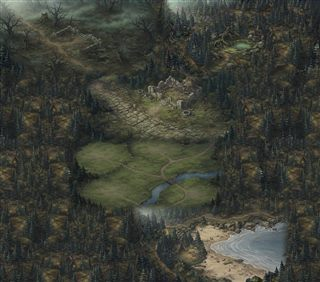
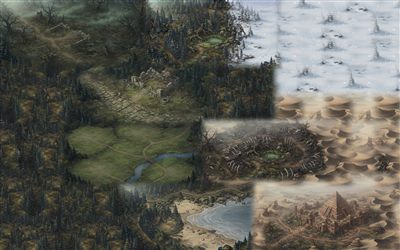
黑暗大陸：大地圖往東擴大——雪原＝永凍荒原、骨骸綠洲＝焦骨峽谷、金字塔＝黃沙王陵（20261018s）

diff --git a/屠龍勇者/data/ui-scene.js b/屠龍勇者/data/ui-scene.js
@@ -82,20 +82,24 @@ const SCENE_BGS = {
             { role: '鍛造', x: 56, y: 15, painted: true, h: 4.2 },   // 右下打鐵匠
         ],
     },
-    // 大地圖（2026-10-18 第 1 期，ARCHITECTURE.md 第 45 節）：使用者用 AI 生成的 5 張場景＋森林填充，tools/bigmap/build-map.ps1 拼成 3200×2816＝100×88 格（1 格 32px，原圖 1:1）
+    // 大地圖（2026-10-18 第 1 期，ARCHITECTURE.md 第 45、47、48 節）：使用者用 AI 生成的場景＋森林／雪地／沙漠填充，tools/bigmap/build-map.ps1 拼成 4512×2816＝141×88 格（1 格 32px，原圖 1:1）
     // 走得到的範圍照 tools/bigmap/walk.json；big：鏡頭跟著角色捲動、離角色太遠的怪收掉、有小地圖；
     // regions：區域中心格、對應的地圖 zone、從村莊傳送過來的出生格 start；角色離哪個中心最近就算在哪一區
     // 2026-10-18 使用者改成「5 個真的地圖合併」：海灘＝低語海岸、草原與古泉＝迷霧古林、廢村＝沉船海灣、沼澤＝紫霧遺跡；
     // 走進別區就自動換成那個地圖（怪物、等級、掉落跟著換，sceneEnterZone），這幾個地圖共用同一個畫面（sceneKey 'zone:wild'）
     wild: {
-        src: 'images/maps/wild.jpg', mini: 'images/maps/wild-mini.jpg', occ: 'images/maps/wild-occ.png', w: 100, h: 88, start: [63, 78], big: true,
+        src: 'images/maps/wild.jpg?v=2', mini: 'images/maps/wild-mini.jpg?v=2', occ: 'images/maps/wild-occ.png', w: 141,   // ?v=：圖改過就加 1（SW 會先給快取的舊圖）
+        h: 88, start: [63, 78], big: true,
         // rect：這一區的範圍（格子 [x0,y0,x1,y1]，依序第一個符合的；沒有符合的才用最近的中心）
         regions: [
             { zone: 'forgottenIsle', x: 22, y: 12, start: [20, 14], rect: [0, 0, 49, 21] },
-            { zone: 'elvenForest', x: 70, y: 15, rect: [50, 0, 99, 21] },   // 古泉：迷霧古林的另一區（傳送出生在草原）
-            { zone: 'pirateIsle', x: 44, y: 34, start: [40, 34], rect: [0, 22, 99, 42] },
-            { zone: 'elvenForest', x: 46, y: 54, start: [46, 52], rect: [0, 43, 99, 64] },
-            { zone: 'island', x: 63, y: 79, start: [63, 78], rect: [0, 65, 99, 87] },
+            { zone: 'elvenForest', x: 70, y: 15, rect: [50, 0, 81, 21] },   // 古泉：迷霧古林的另一區（傳送出生在草原）
+            { zone: 'orenSnow', x: 105, y: 15, start: [92, 14], rect: [82, 0, 140, 32] },        // 2026-10-18 往東擴大：古泉東邊的雪原
+            { zone: 'pirateIsle', x: 44, y: 34, start: [40, 34], rect: [0, 22, 69, 42] },
+            { zone: 'dragonValley', x: 94, y: 50, start: [80, 52], rect: [70, 33, 140, 63] },   // 骨骸綠洲＋東邊沙丘
+            { zone: 'elvenForest', x: 46, y: 54, start: [46, 52], rect: [0, 43, 69, 64] },
+            { zone: 'pyramid', x: 116, y: 76, start: [97, 84], rect: [91, 63, 140, 87] },       // 金字塔（地監黃沙王陵的外圍）
+            { zone: 'island', x: 63, y: 79, start: [63, 78], rect: [0, 65, 90, 87] },
         ],
         walk: [
             [4, 5, 8, 8], [7, 8, 12, 11], [10, 10, 18, 13], [15, 12, 22, 16], [18, 15, 26, 19], [22, 18, 30, 21], [26, 20, 33, 24],
@@ -108,6 +112,9 @@ const SCENE_BGS = {
             [48, 63, 56, 70], [44, 64, 49, 68],
             [48, 69, 63, 71], [48, 71, 52, 87], [53, 76, 61, 81], [60, 69, 67, 74], [61, 74, 67, 76], [59, 76, 68, 80],
             [60, 80, 72, 83], [62, 83, 79, 87], [71, 85, 84, 87], [63, 66, 85, 68], [62, 67, 67, 70],
+            [85, 5, 97, 21], [97, 2, 140, 32], [78, 15, 86, 19],                                  // 雪原、古泉往雪原
+            [100, 33, 140, 64], [74, 44, 114, 62], [66, 56, 76, 58],                              // 沙丘、骨骸綠洲、草原往綠洲
+            [92, 63, 140, 68], [92, 68, 102, 87], [100, 80, 140, 87], [130, 66, 140, 82],         // 金字塔四周
         ],
         block: [
             [16, 8, 24, 9], [23, 10, 31, 12], [25, 13, 27, 15], [36, 16, 37, 18],
@@ -115,6 +122,7 @@ const SCENE_BGS = {
             [45, 23, 61, 32], [42, 27, 44, 29], [56, 34, 58, 36],
             [56, 52, 68, 54], [55, 54, 56, 54], [49, 57, 51, 58], [47, 58, 49, 59], [45, 59, 48, 61], [44, 61, 46, 63],
             [55, 75, 58, 77], [61, 78, 63, 80],
+            [87, 50, 100, 56], [103, 68, 130, 81],   // 綠洲水池與樹根、金字塔建築群
         ],
     },
 };
@@ -267,6 +275,7 @@ function sceneKey() {
 function themeFor() {
     if (player.loc.type === 'town') return { ...SCENE_THEMES.town, bg: TOWN_BG[player.loc.id] || 'village' };
     const z = currentZone();
+    if (z.bg && SCENE_BGS[z.bg] && SCENE_BGS[z.bg].big) return { ...SCENE_THEMES.field, bg: z.bg };   // 大地圖（含地監黃沙王陵的外圍）
     if (z.type === 'dragon') return SCENE_THEMES.dragon;
     if (z.type === 'tower') return SCENE_THEMES.tower;
     if (z.type === 'field') return z.bg ? { ...SCENE_THEMES.field, bg: z.bg } : SCENE_THEMES.field;   // z.bg：這張野外用自己的背景圖（大地圖）

diff --git a/屠龍勇者/index.html b/屠龍勇者/index.html
@@ -863,44 +863,44 @@
 <div id="toast-layer"></div>
 
 <!-- 載入順序：設定 → 資料 → 玩家 → 系統 → 介面 → 進入點（換版時所有 ?v= 一起改，見 ARCHITECTURE.md） -->
-<script src="data/config.js?v=20261018r"></script>
-<script src="data/classes.js?v=20261018r"></script>
-<script src="data/skills.js?v=20261018r"></script>
-<script src="data/items.js?v=20261018r"></script>
-<script src="data/spellbook.js?v=20261018r"></script>
-<script src="data/monsters.js?v=20261018r"></script>
-<script src="data/zones.js?v=20261018r"></script>
-<script src="data/quests.js?v=20261018r"></script>
-<script src="data/resonance.js?v=20261018r"></script>
-<script src="data/player.js?v=20261018r"></script>
-<script src="data/enchant.js?v=20261018r"></script>
-<script src="data/affix.js?v=20261018r"></script>
-<script src="data/craft.js?v=20261018r"></script>
-<script src="data/maps.js?v=20261018r"></script>
-<script src="data/combat.js?v=20261018r"></script>
-<script src="data/town.js?v=20261018r"></script>
-<script src="data/save.js?v=20261018r"></script>
-<script src="data/cloud.js?v=20261018r"></script>
-<script src="data/offline.js?v=20261018r"></script>
-<script src="data/ui.js?v=20261018r"></script>
-<script src="data/sfx.js?v=20261018r"></script>
-<script src="data/bgm.js?v=20261018r"></script>
-<script src="data/ui-create.js?v=20261018r"></script>
-<script src="data/ui-panels.js?v=20261018r"></script>
-<script src="data/codex.js?v=20261018r"></script>
-<script src="data/raid.js?v=20261018r"></script>
-<script src="data/clan.js?v=20261018r"></script>
-<script src="data/chat.js?v=20261018r"></script>
-<script src="data/rank.js?v=20261018r"></script>
-<script src="data/wb.js?v=20261018r"></script>
-<script src="data/market.js?v=20261018r"></script>
-<script src="data/vault.js?v=20261018r"></script>
-<script src="data/presence.js?v=20261018r"></script>
-<script src="data/ui-frame.js?v=20261018r"></script>
-<script src="data/icons.js?v=20261018r"></script>
-<script src="data/hotbar.js?v=20261018r"></script>
-<script src="data/ui-scene.js?v=20261018r"></script>
-<script src="data/pwa.js?v=20261018r"></script>
-<script src="data/main.js?v=20261018r"></script>
+<script src="data/config.js?v=20261018s"></script>
+<script src="data/classes.js?v=20261018s"></script>
+<script src="data/skills.js?v=20261018s"></script>
+<script src="data/items.js?v=20261018s"></script>
+<script src="data/spellbook.js?v=20261018s"></script>
+<script src="data/monsters.js?v=20261018s"></script>
+<script src="data/zones.js?v=20261018s"></script>
+<script src="data/quests.js?v=20261018s"></script>
+<script src="data/resonance.js?v=20261018s"></script>
+<script src="data/player.js?v=20261018s"></script>
+<script src="data/enchant.js?v=20261018s"></script>
+<script src="data/affix.js?v=20261018s"></script>
+<script src="data/craft.js?v=20261018s"></script>
+<script src="data/maps.js?v=20261018s"></script>
+<script src="data/combat.js?v=20261018s"></script>
+<script src="data/town.js?v=20261018s"></script>
+<script src="data/save.js?v=20261018s"></script>
+<script src="data/cloud.js?v=20261018s"></script>
+<script src="data/offline.js?v=20261018s"></script>
+<script src="data/ui.js?v=20261018s"></script>
+<script src="data/sfx.js?v=20261018s"></script>
+<script src="data/bgm.js?v=20261018s"></script>
+<script src="data/ui-create.js?v=20261018s"></script>
+<script src="data/ui-panels.js?v=20261018s"></script>
+<script src="data/codex.js?v=20261018s"></script>
+<script src="data/raid.js?v=20261018s"></script>
+<script src="data/clan.js?v=20261018s"></script>
+<script src="data/chat.js?v=20261018s"></script>
+<script src="data/rank.js?v=20261018s"></script>
+<script src="data/wb.js?v=20261018s"></script>
+<script src="data/market.js?v=20261018s"></script>
+<script src="data/vault.js?v=20261018s"></script>
+<script src="data/presence.js?v=20261018s"></script>
+<script src="data/ui-frame.js?v=20261018s"></script>
+<script src="data/icons.js?v=20261018s"></script>
+<script src="data/hotbar.js?v=20261018s"></script>
+<script src="data/ui-scene.js?v=20261018s"></script>
+<script src="data/pwa.js?v=20261018s"></script>
+<script src="data/main.js?v=20261018s"></script>
 </body>
 </html>

diff --git a/屠龍勇者/data/zones.js b/屠龍勇者/data/zones.js
@@ -15,7 +15,7 @@ const TOWN_TRAVEL_FEE = 200; // 村莊間傳送：每差一級 200 金幣
 // rare：稀有首領出現機率；drops：地圖專屬掉落
 const ZONES = [
     {
-        id: 'island', name: '低語海岸', icon: '🏝', type: 'field', bg: 'wild', lv: [1, 10], town: 'talking', fee: 0,   // bg：大地圖（ui-scene.js SCENE_BGS.wild，第 45、47 節；低語海岸／迷霧古林／沉船海灣／紫霧遺跡共用）
+        id: 'island', name: '低語海岸', icon: '🏝', type: 'field', bg: 'wild', lv: [1, 10], town: 'talking', fee: 0,   // bg：大地圖（ui-scene.js SCENE_BGS.wild，第 45、47 節；低語海岸／迷霧古林／沉船海灣／紫霧遺跡／焦骨峽谷／永凍荒原／黃沙王陵共用）
         mons: ['goblin', 'dwarf', 'wolf', 'orc', 'floatingEye', 'skeleton'],
         drops: [{ id: 'dagger', p: 0.01 }, { id: 'shortSword', p: 0.008 }, { id: 'leatherCap', p: 0.01 }, { id: 'leatherArmor', p: 0.008 },
             { id: 'woodShield', p: 0.008 }, { id: 'leatherBoots', p: 0.008 }, { id: 'shortBow', p: 0.005 }, { id: 'arrow', p: 0.1, n: [5, 15] }],
@@ -73,21 +73,21 @@ const ZONES = [
         desc: '魔法師們的高塔，被惡魔佔據。',
     },
     {
-        id: 'dragonValley', name: '焦骨峽谷', icon: '🐉', type: 'field', tint: 'rgba(150,60,20,0.22)', lv: [36, 48], town: 'giran', fee: 600,
+        id: 'dragonValley', name: '焦骨峽谷', icon: '🐉', type: 'field', bg: 'wild', tint: 'rgba(150,60,20,0.22)', lv: [36, 48], town: 'giran', fee: 600,
         mons: ['dvLizard', 'cerberus', 'wyvernling', 'boneDragonKnight'], rare: { id: 'wyvern', p: 0.007 },
         drops: [{ id: 'knightHelm', p: 0.0006 }, { id: 'plateMail', p: 0.001 }, { id: 'warHammer', p: 0.002 }, { id: 'magicHelm', p: 0.0006 },
             { id: 'protectRing', p: 0.001 }, { id: 'strAmulet', p: 0.0004 }, { id: 'boneScythe', p: 0.001 }],
         desc: '飛龍盤旋的焦土山谷，龍騎士的遺骸仍在守望。',
     },
     {
-        id: 'pyramid', name: '黃沙王陵', icon: '🔺', type: 'dungeon', scene: 'pyramid', lv: [44, 56], town: 'giran', fee: 700,
+        id: 'pyramid', name: '黃沙王陵', icon: '🔺', type: 'dungeon', scene: 'pyramid', bg: 'wild', lv: [44, 56], town: 'giran', fee: 700,
         mons: ['mummy', 'sandScorpion', 'sphinx', 'anubis'], rare: { id: 'osiris', p: 0.008 },
         drops: [{ id: 'trident', p: 0.002 }, { id: 'darkClaw', p: 0.0008 }, { id: 'darkDual', p: 0.0008 }, { id: 'elvenBow', p: 0.0008 },
             { id: 'protectCloak', p: 0.001 }, { id: 'conRing', p: 0.0005 }, { id: 'titanBelt', p: 0.0005 }, { id: 'hasteBoots', p: 0.0005 }],
         desc: '沙漠中的古代陵墓，冥王歐西里斯沉睡於此。',
     },
     {
-        id: 'orenSnow', name: '永凍荒原', icon: '❄', type: 'field', tint: 'rgba(225,238,255,0.38)', lv: [46, 58], town: 'aden', fee: 900,
+        id: 'orenSnow', name: '永凍荒原', icon: '❄', type: 'field', bg: 'wild', tint: 'rgba(225,238,255,0.38)', lv: [46, 58], town: 'aden', fee: 900,
         mons: ['snowWolf', 'yeti', 'iceGolem', 'frostWitch'], rare: { id: 'iceGiantKing', p: 0.007 },
         drops: [{ id: 'mrCloak', p: 0.001 }, { id: 'mrAmulet', p: 0.0008 }, { id: 'conRing', p: 0.0005 }, { id: 'intRing', p: 0.0005 },
             { id: 'knightShield', p: 0.0006 }, { id: 'boneScythe', p: 0.002 }],

diff --git a/屠龍勇者/data/config.js b/屠龍勇者/data/config.js
@@ -1,6 +1,6 @@
 // 屠龍勇者：全域設定、常數、共用小工具（最先載入，不依賴其他檔案）
 const GAME_TITLE = '黑暗大陸';   // 遊戲名稱（2026-10-12 由「屠龍勇者」改名；資料夾與網址不變）
-const GAME_VERSION = '20261018r';
+const GAME_VERSION = '20261018s';
 
 // 與凡塵修仙傳同網域，localStorage 共用，key 一定要有 dragonSlayer_ 前綴
 const SAVE_KEY = 'dragonSlayer_save_v2';   // 欄位 0；其他欄位是 SAVE_KEY + '_s' + 編號（save.js slotKey）

diff --git a/屠龍勇者/ARCHITECTURE.md b/屠龍勇者/ARCHITECTURE.md
@@ -66,7 +66,7 @@
 
 ## 3. 開發規則
 
-- **版本號**：改任何 JS 都要把 `index.html` 全部 `?v=` 與 `config.js` 的 `GAME_VERSION` 一起換新（目前 `20261018r`）。
+- **版本號**：改任何 JS 都要把 `index.html` 全部 `?v=` 與 `config.js` 的 `GAME_VERSION` 一起換新（目前 `20261018s`）。
 - **合併衝突**：合併後一定要搜尋 `<<<<<<<`。2026-10-09 曾把衝突標記留在 `index.html`／`config.js`／`ui-scene.js`，
   整個遊戲載不起來（看起來像「存檔壞掉」，其實存檔還在），`20261009u` 修復時採用較新的 `20261009t` 那一邊。
   SW 依版本號快取 JS，**沒換版本號，已安裝 App 的玩家會一直跑舊程式**。
@@ -1563,3 +1563,19 @@ python3 tools/cut-sprites.py tools/sprite-src/mage-walk.json --preview 預覽.pn
 - 橫幅改成「— 地圖名 —」＋「建議等級 Lv.a～b」；小地圖下方與狀態列顯示目前地圖。
 - 驗證：從村莊傳送到四個地圖都出生在對的區域、地圖上的怪換成該地圖的怪；點小地圖從海灘走到草原、廢村、沼澤、古泉，地圖依序換成低語海岸→迷霧古林→沉船海灣→紫霧遺跡→迷霧古林，
   沼澤到古泉只經過紫霧遺跡→迷霧古林；Console 無錯誤。
+## 48. 大地圖往東擴大：永凍荒原、焦骨峽谷、黃沙王陵（2026-10-18，版本 `20261018s`）
+
+- 使用者再給 3 張圖要「溶入大地圖內」：`pond-snow.jpg`（左半＝原本的林間古泉、右半＝雪原）、`oasis.jpg`（骨骸綠洲，四周沙丘）、`pyramid.jpg`（沙漠金字塔建築群）。
+  對應：雪原＝永凍荒原 `orenSnow`（46～58）、骨骸綠洲＋東邊沙丘＝焦骨峽谷 `dragonValley`（36～48）、金字塔四周＝黃沙王陵 `pyramid`（地監，44～56，這裡當成它的外圍）。三個在 `zones.js` 加 `bg: 'wild'`；
+  `themeFor` 改成任何類型的地圖只要 `bg` 是 big 就用大地圖（黃沙王陵原本是地監格子主題）。
+- `build-map.ps1`：畫布改 4512×2816（141×88 格），古泉位置改用 `pond-snow.jpg`（古泉的位置、可走範圍不變），新增綠洲（2240,1300，亮度 0.92）、金字塔（2904,2025，亮度 0.92）。
+  填充分兩層：先全部鋪森林，再在東北（中心 x>3150、y<1200）鋪雪地、東南鋪沙漠（裁自 `pond-snow` 右半、`oasis`／`pyramid` 邊緣的沙丘），第二層 150px 柔邊、間距 280×300 密集重疊，交界是漸層。
+  小地圖改 400×250。`build-occ.ps1` 的格數改從圖片大小算（深度圖 1128×704）。雪地松樹、骨頭、沙丘不是深色，不會被當遮擋物。
+- 圖檔網址加 `?v=2`（`SCENE_BGS.wild.src`／`mini`）：SW 對圖片是先給快取，圖的大小改了沒換網址的話，手機會先拿到舊的 3200 寬圖貼在 141 格上。之後重拼圖就把數字加 1。
+- 可走範圍（`walk.json` 同步抄進 `SCENE_BGS.wild`）：雪原 [85,5,97,21]＋[97,2,140,32]、古泉往雪原 [78,15,86,19]；東邊沙丘 [100,33,140,64]；
+  綠洲 [74,44,114,62]（擋水池與樹根 [87,50,100,56]）、草原往綠洲 [66,56,76,58]；金字塔四周 [92,63,140,68]、[92,68,102,87]、[100,80,140,87]、[130,66,140,82]（擋建築群 [103,68,130,81]）。
+  雪原經東邊沙丘接到綠洲與金字塔。可走 6434 格全部能從草原出生點走到。
+- `regions` 依序：紫霧遺跡 [0,0,49,21]、古泉 [50,0,81,21]、永凍荒原 [82,0,140,32]（出生 92,14）、沉船海灣 [0,22,69,42]、焦骨峽谷 [70,33,140,63]（出生 80,52）、
+  草原 [0,43,69,64]、黃沙王陵 [91,63,140,87]（出生 97,84）、低語海岸 [0,65,90,87]。
+- 驗證：從永夜王都傳送到永凍荒原／焦骨峽谷／黃沙王陵都出生在對的區域、地圖上是該地圖的怪（雪怪、地獄三頭犬、沙漠巨蠍）；點小地圖草原→綠洲→金字塔、古泉→雪原，地圖依序切換；Console 無錯誤。
+- 大地圖現在包含 7 個地圖：低語海岸、迷霧古林、沉船海灣、紫霧遺跡、焦骨峽谷、永凍荒原、黃沙王陵（黃沙王陵的地監格子畫面不再用）。
